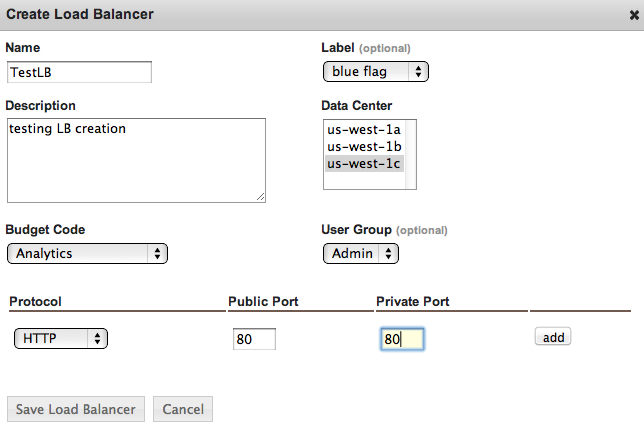
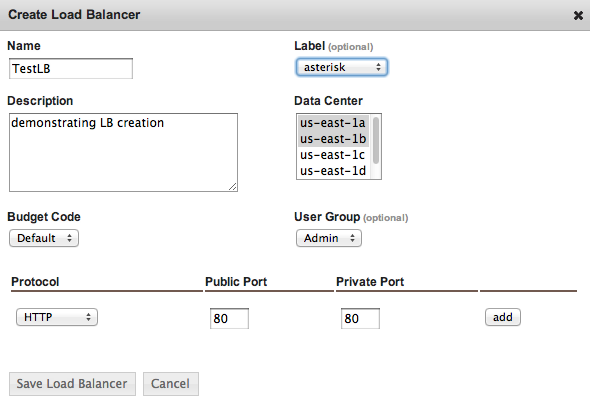
updated LBs and IPs

diff --git a/saas/network/load_balancers.rst b/saas/network/load_balancers.rst
@@ -1,5 +1,13 @@
 .. _saas_load_balancers:
 
+.. figure:: ./images/loadbalancers.png
+   :width: 1372 px
+   :height: 530 px
+   :scale: 70%
+   :alt: Load Balancers
+   :align: center
+
+
 Load Balancers
 --------------
 Successful application load balancing involves dynamically adding and removing application
@@ -18,7 +26,7 @@ Elastic Load Balancer
 ~~~~~~~~~~~~~~~~~~~~~
 Elastic load balancers (ELB) are an offering from Amazon Web Services that are well supported in
 enStratus. ELB are advantagous because they can be cheaper to operate than server based
-solutions. The configuration requirements for ELB is often simpler than using server-based
+solutions. Additionally, the configuration requirements for ELB are often simpler than using server-based
 load balancing.
 
 To provision a new elastic load balancer using enStratus, navigate to Network > Load
@@ -26,8 +34,8 @@ Balancers. Select +Create Load Balancer. A single dialog box will present the
 configuration options for the load balancer.
 
 .. figure:: ./images/createLB.png
-   :width: 644 px
-   :height: 428 px
+   :width: 590 px
+   :height: 403 px
    :scale: 95 %
    :alt: Create LB
    :align: center
@@ -35,8 +43,9 @@ configuration options for the load balancer.
 
 ELB Discussion
 ~~~~~~~~~~~~~~
+
 The Name, Label, and Description fields should be self-explanatory. More care should be
-taken when configuring the Data Center portion of the dialog. Each configured data center
+taken when configuring the Data Center portion of the dialog. Each selected data center
 will receive an equal portion of the traffic entering the load balancer. This means that
 for each data center configured, there should be a "listening" application server to field
 the load balanced traffic.
@@ -51,9 +60,8 @@ manifest as an error.
   been created. Additionally, in a clustered environment, enStratus knows not to start any
   servers in a data center that is unassociated with the load balancer.
 
-Billing code and user group are the billing code and user group attributes that enStratus
-will use to track billing charges and access rights tied to the user management and
-billing code offering of enStratus.
+Budget code and user group are the budget code and user group attributes that enStratus
+will use to track billing charges and access rights.
 
 The last step in configuring an elastic load balancer is to configure the protocols that
 pass through the load balancer. Several protocols are available for configuration
@@ -65,13 +73,34 @@ for SSL traffic.
 Once the ELB has been configured, it will appear as an available load balancer in the Load
 Balancer list.
 
-The action button for the load balancer allows for changing the configuration of the ELB.
-Manage servers allows currently running servers to be associated with the running ELB.
-Manage zones allows for adding or dropping zone associations. For example, if there are no
-longer any server running in a currently balanced zone, that zone should be removed from
+Load Balancer Actions
+~~~~~~~~~~~~~~~~~~~~~
+
+To manage the load balancer, select its actions link:
+
+.. figure:: ./images/lbActions.png
+   :width: 142 px
+   :height: 132 px
+   :scale: 95 %
+   :alt: Network > Load Balancers > actions
+   :align: center
+
+**Manage Servers** allows currently running servers to be associated with the running ELB.
+
+**Manage Zones** allows for adding or dropping zone associations. For example, if there are no
+longer any servers running in a currently balanced zone, that zone should be removed from
 the ELB.
 
-Lastly, to delete an existing ELB, choose the delete option under the actions menu.
+**View Listeners** displays the protocols configured for that load balancer:
+
+.. figure:: ./images/viewListeners.png
+   :width: 613 px
+   :height: 140 px
+   :scale: 95 %
+   :alt: View Listeners
+   :align: center
+
+**Delete** will remove a load balancer permanently, following a confirmation dialogue.
 
 ELB and CNAME
 ~~~~~~~~~~~~~
@@ -94,16 +123,11 @@ through this IP address to the balanced pool of servers.
 
 mod-jk
 ~~~~~~
+
 A second popular method for load balancing applications is to use mod_jk. Using mod_jk is
 one of two types of virtual machine based load balancing currently supported by enStratus.
 enStratus manages mod_jk balanced applications via the 5 mod_jk scripts that are a part of
 the enStratus agent. These scripts are located in /enstratus/bin/
-
-#. modjk-addAddress -- Adds an address to the worker pool.
-#. modjk-buildWorkers -- Creates the workers.list file.
-#. modjk-removeAddress -- Removes an address from the worker pool.
-#. modjk-startProxy -- Calls modjk-addAddress with the necessary parameters to add a worker to the pool.
-#. modjk-stopProxy -- Calls modjk-removeAddress with the necessary parameters to remove a worker from the pool.
 
 modjk Agent Scripts
 ~~~~~~~~~~~~~~~~~~~
@@ -130,16 +154,12 @@ modjk Agent Scripts
 
 HA-Proxy
 ~~~~~~~~
+
 Another popular method for load balancing is using the High Availability Proxy or HA-Proxy
 method. This method is the other type of virtual machine based load in active support by
 enstratus. Although HA-Proxy is highly customizable and extensible, the support scripts
 are arranged for the most basic proxying. However, the scripts are open for customization
-and extension. They are located in /enstratus/bin/
-
-haproxy-addService -- Adds a balanced node to /etc/haproxy.cfg and auto-increments.
-haproxy-runLb -- Ensures haproxy runs at start.  haproxy-startProxy -- Creates a basic
-/etc/haproxy.cfg script to control the proxy service.  haproxy-stopProxy -- Removes a
-balanced node from /etc/haproxy.cfg.
+and extension. They are also located in /enstratus/bin/
 
 HA-Proxy Agent Scripts
 ~~~~~~~~~~~~~~~~~~~~~~
@@ -158,35 +178,39 @@ HA-Proxy Agent Scripts
 | haproxy-stopProxy   | Removes a balanced node from /etc/haproxy.cfg.                       |
 +---------------------+----------------------------------------------------------------------+
 
-.. note:: The drop-in point for this and the other types of load balancing are the
- /enstratus/bin/startProxy and /enstratus/bin/stopProxy scripts.
-
-Using any type of virtual machine-based load balancing requires that the underlying
-machine image have the supporting binaries imaged onto it. The advantages to using a
-virtual machine to perform load balancing are:
-
-SSL-termination is possible on the load balancer.  Fine-grained control of load balancer
-configuration. Third party plugin extensions.  Adding additional load balancers in a DNS
-round robin configuration.  The disadvantages to using a virtual machine to perform load
-balancing are:
-
-Costs for running a virtual machine are generally higher than using an ELB.  Increased
-configuration complexity
-
 Zeus 
 ~~~~
 The final method of application load balancing for this discussion is the Zeus Load Balancer.
 
 Zeus is a very powerful solution for high-availability and high-performance load
-balancing. It is available for use with enStratus and a demonstration of the auto-scaling
+balancing. It is available for use with enStratus; a demonstration of the auto-scaling
 and recovery behavior can be viewed here:
 
 `Zeus Load Balancing in Rackspace <http://www.youtube.com/watch?v=jRPNhQSPrws>`_
 
-The agent scripts that control the functionality of the zeus load balancer are locate in
+The agent scripts that control the functionality of the zeus load balancer are also located in
 /enstratus/bin/
 
-To Do:
-~~~~~~
-#. Links to tutorials
-#. Links to agent discussion
+Further Considerations
+~~~~~~~~~~~~~~~~~~~~~~
+
+Using any type of virtual machine-based load balancing requires that the underlying
+machine image have the supporting binaries imaged onto it. 
+
+**Some advantages to using a virtual machine to perform load balancing:**
+
+* SSL-termination is possible on the load balancer.  
+
+* Fine-grained control of load balancer configuration. 
+
+* Third party plugin extensions.  
+
+* Adding additional load balancers in a DNS round robin configuration.  
+
+**Some disadvantages to using a virtual machine to perform load balancing:**
+
+* Costs for running a virtual machine are generally higher than using an ELB.  
+
+* Increased configuration complexity
+
+

diff --git a/saas/network/ip_addresses.rst b/saas/network/ip_addresses.rst
@@ -1,5 +1,12 @@
 .. _saas_ipaddresses:
 
+.. figure:: ./images/ipAddresses.png
+   :width: 1160 px
+   :height: 583 px
+   :scale: 70%
+   :alt: All Addresses
+   :align: center
+
 IP Addresses
 ------------
 
@@ -11,23 +18,23 @@ Overview
 .. note:: IP address reservation is a feature not available in all clouds. If it's not a
   feature supported by your cloud provider, enStratus will not present it in the console.
 
-To reserve an IP Address, click on + reserve_address in the menu window and select Reserve
+To reserve an IP Address, click on +reserve address in the upper right and select Reserve
 IP Address. A new IP address will be added to the list of Active Addresses.
 
 .. note:: In the Amazon cloud, there is a limit of 5 reserved IP addresses. To reserve
   more, you must contact Amazon Web Services.
 
 Once the IP address has been reserved it is available for use by assigning it to a running
-server. To assign the IP address to a server, select the green actions button and choose
-assign. A dialog box will appear with a dropdown list of available servers. Select your
+server. To assign the IP address to a server, select actions > assign.
+A dialog box will appear with a dropdown list of available servers. Select your
 server from the list and choose Assign address. It will take a few moments for the
 assignment to be made.
 
-If an addresses is already assigned to a server and is set for removal instead, click on
-the actions button and choose the release option. This action will also take a few
-moments.
+If an addresses is already assigned to a server and you would like to de-assign it,
+select actions > release. This action will also take a few moments.
 
-Hint: Unused reserved IP addresses still cost money even though they are not assigned to
-running server. To delete an IP address, click on the actions button and choose delete.
+.. warning:: Unused reserved IP addresses still cost money even though they are not assigned to a running server. 
+
+To delete an IP address, click on the actions button and choose delete.
 Confirm the deletion in the resulting dialog box and the IP address will be removed from
 your account.
